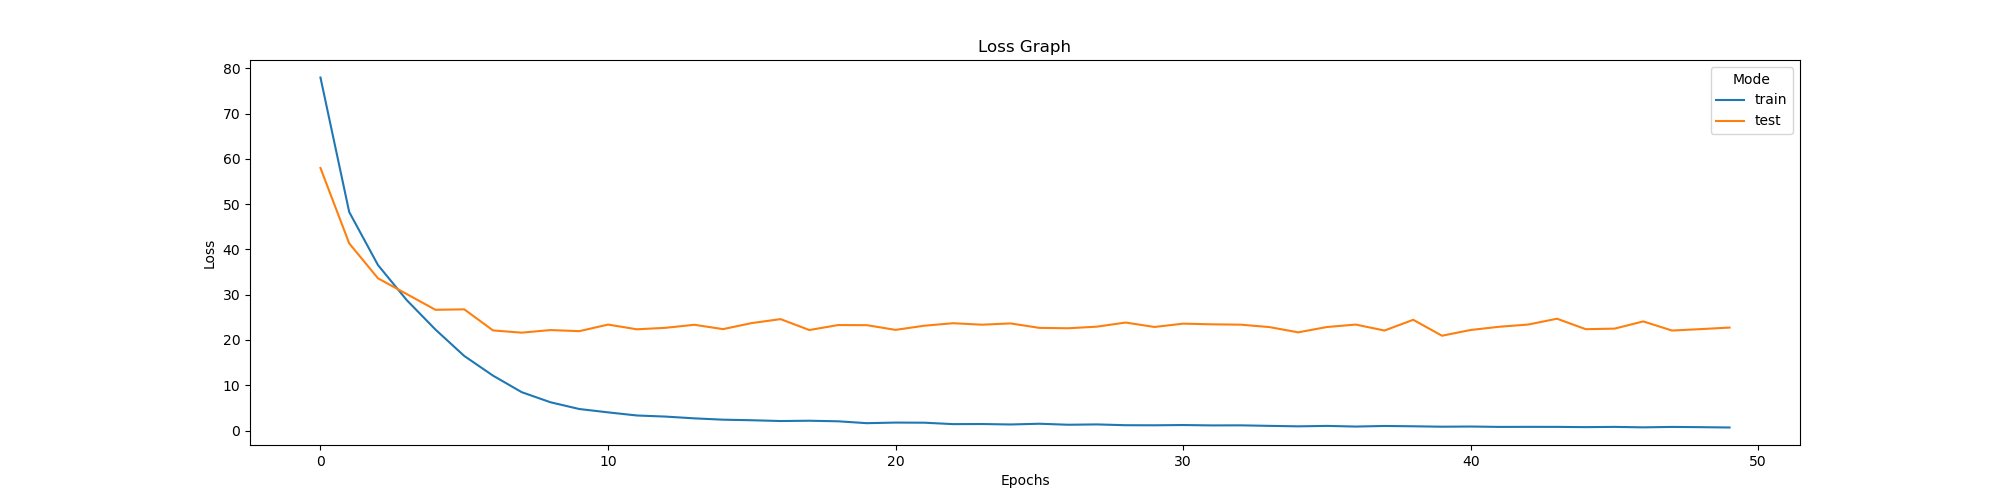
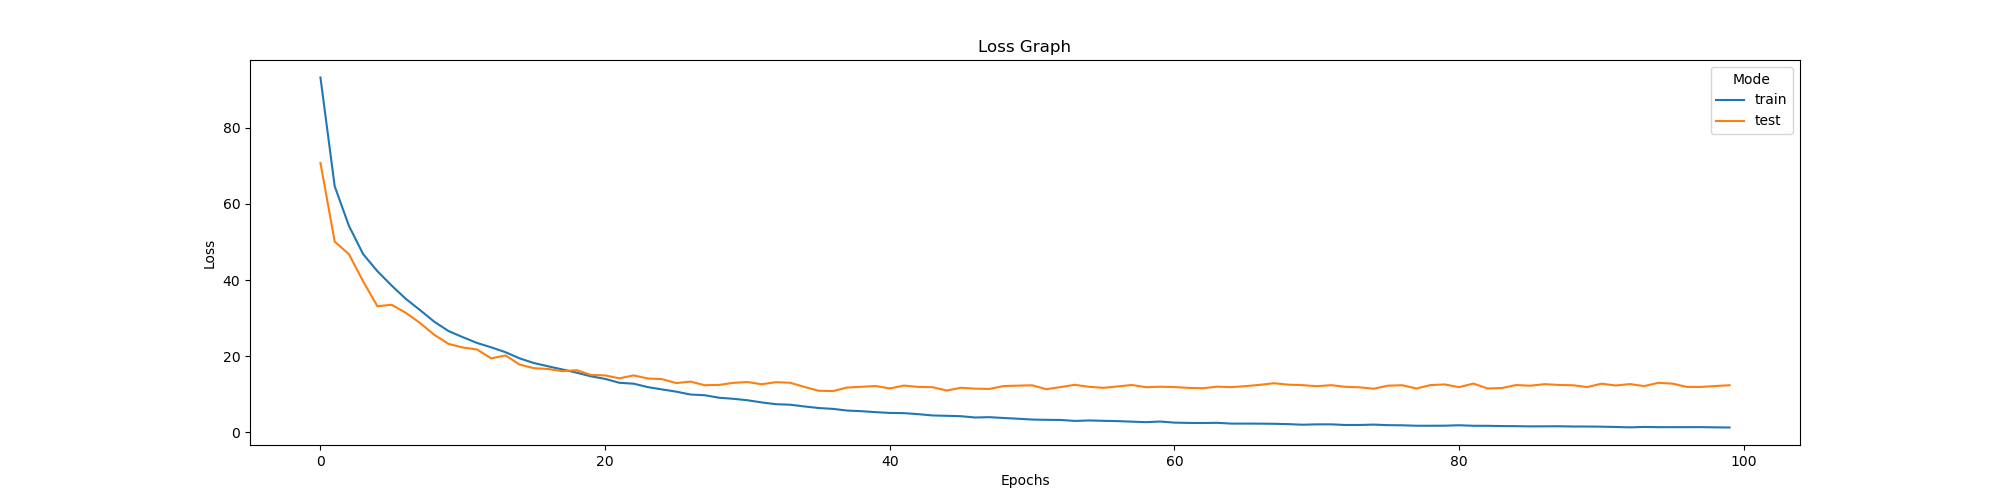
training done

diff --git a/train.py b/train.py
@@ -22,7 +22,11 @@ device = torch.device("cuda:0" if torch.cuda.is_available() and args.device == '
 if not os.path.exists(args.graphs_folder) : os.makedirs(args.graphs_folder)
 
 train_dataset = LoadDataset(image_size=args.img_size, image_depth=args.img_depth, csv_path=args.train_csv,
-                            cifar_metafile=args.metafile, transform=transforms.ToTensor())
+                            cifar_metafile=args.metafile, transform=transforms.Compose([transforms.RandomAffine(40, scale=(.85, 1.15), shear=0, resample=0),
+                                transforms.RandomHorizontalFlip(),
+                                transforms.RandomPerspective(distortion_scale=0.2),
+                                transforms.ColorJitter(brightness=0.5, contrast=0.5, saturation=0.5),
+                                 transforms.ToTensor()]))
 test_dataset = LoadDataset(image_size=args.img_size, image_depth=args.img_depth, csv_path=args.test_csv,
                             cifar_metafile=args.metafile, transform=transforms.ToTensor())
 
@@ -33,7 +37,6 @@ model = resnet50.ResNet50()
 optimizer = Adam(model.parameters(), lr=args.learning_rate)
 
 model = model.to(device)
-
 HLN = HierarchicalLossNetwork(metafile_path=args.metafile, hierarchical_labels=hierarchy, device=device)
 
 

diff --git a/model/resnet50.py b/model/resnet50.py
@@ -65,7 +65,7 @@ class ResNet50(nn.Module):
 
         self.in_channels = 64
         self.expansion = 4
-        self.num_blocks = [3, 3, 3, 2]
+        self.num_blocks = [3, 4, 6, 3]
 
         self.conv_block1 = nn.Sequential(nn.Conv2d(kernel_size=3, stride=1, in_channels=image_depth, out_channels=self.in_channels, padding=1, bias=False),
                                             nn.BatchNorm2d(self.in_channels),
@@ -75,7 +75,7 @@ class ResNet50(nn.Module):
         self.layer2 = self.make_layer(out_channels=128, num_blocks=self.num_blocks[1], stride=2, use_cbam=use_cbam)
         self.layer3 = self.make_layer(out_channels=256, num_blocks=self.num_blocks[2], stride=1, use_cbam=use_cbam)
         self.layer4 = self.make_layer(out_channels=512, num_blocks=self.num_blocks[3], stride=2, use_cbam=use_cbam)
-        self.avgpool = nn.AvgPool2d(7)
+        self.avgpool = nn.AdaptiveAvgPool2d((1, 1))
 
         self.linear_lvl1 = nn.Linear(512*self.expansion, num_classes[0])
         self.linear_lvl2 = nn.Linear(512*self.expansion, num_classes[1])

diff --git a/load_dataset.py b/load_dataset.py
@@ -5,6 +5,7 @@ import os
 import pickle
 import csv
 import cv2
+from PIL import Image
 from torch.utils.data import Dataset
 from level_dict import hierarchy
 from helper import read_meta
@@ -74,12 +75,15 @@ class LoadDataset(Dataset):
         if self.image_size != 32:
             cv2.resize(image, (self.image_size, self.image_size))
 
+
+        image = Image.fromarray(image)
+
         if self.transform:
             image = self.transform(image)
 
         if self.return_label:
             return {
-                'image':image,
+                'image':image/255.0,
                 'label_1': self.coarse_labels.index(superclass.strip(' ')),
                 'label_2': self.fine_labels.index(subclass.strip(' '))
             }
